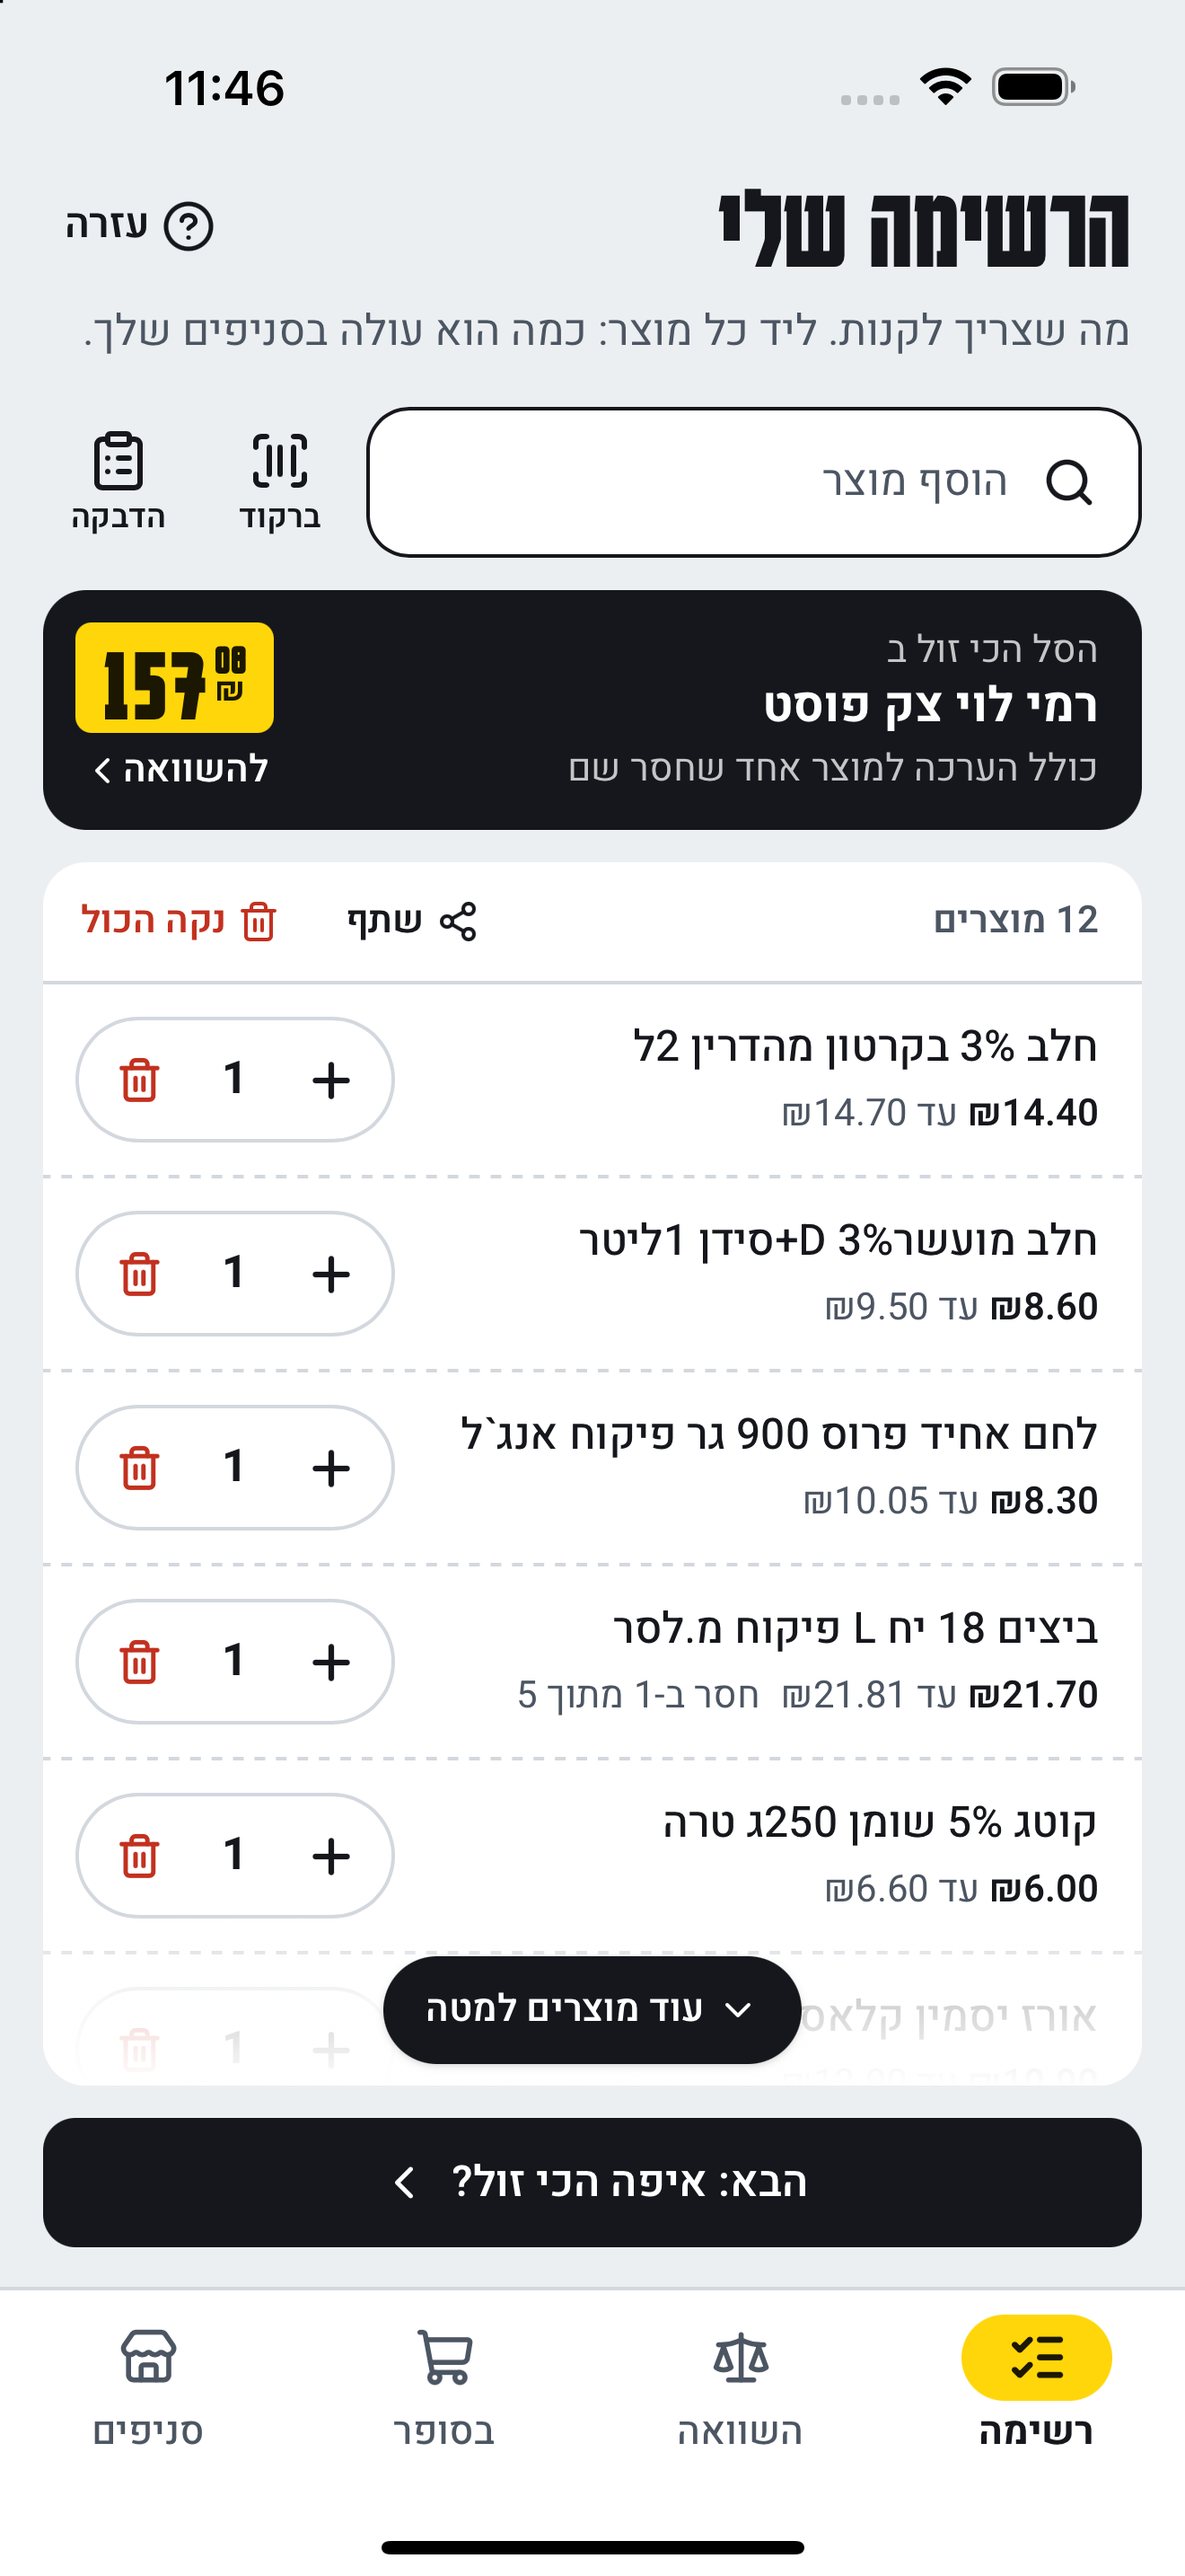
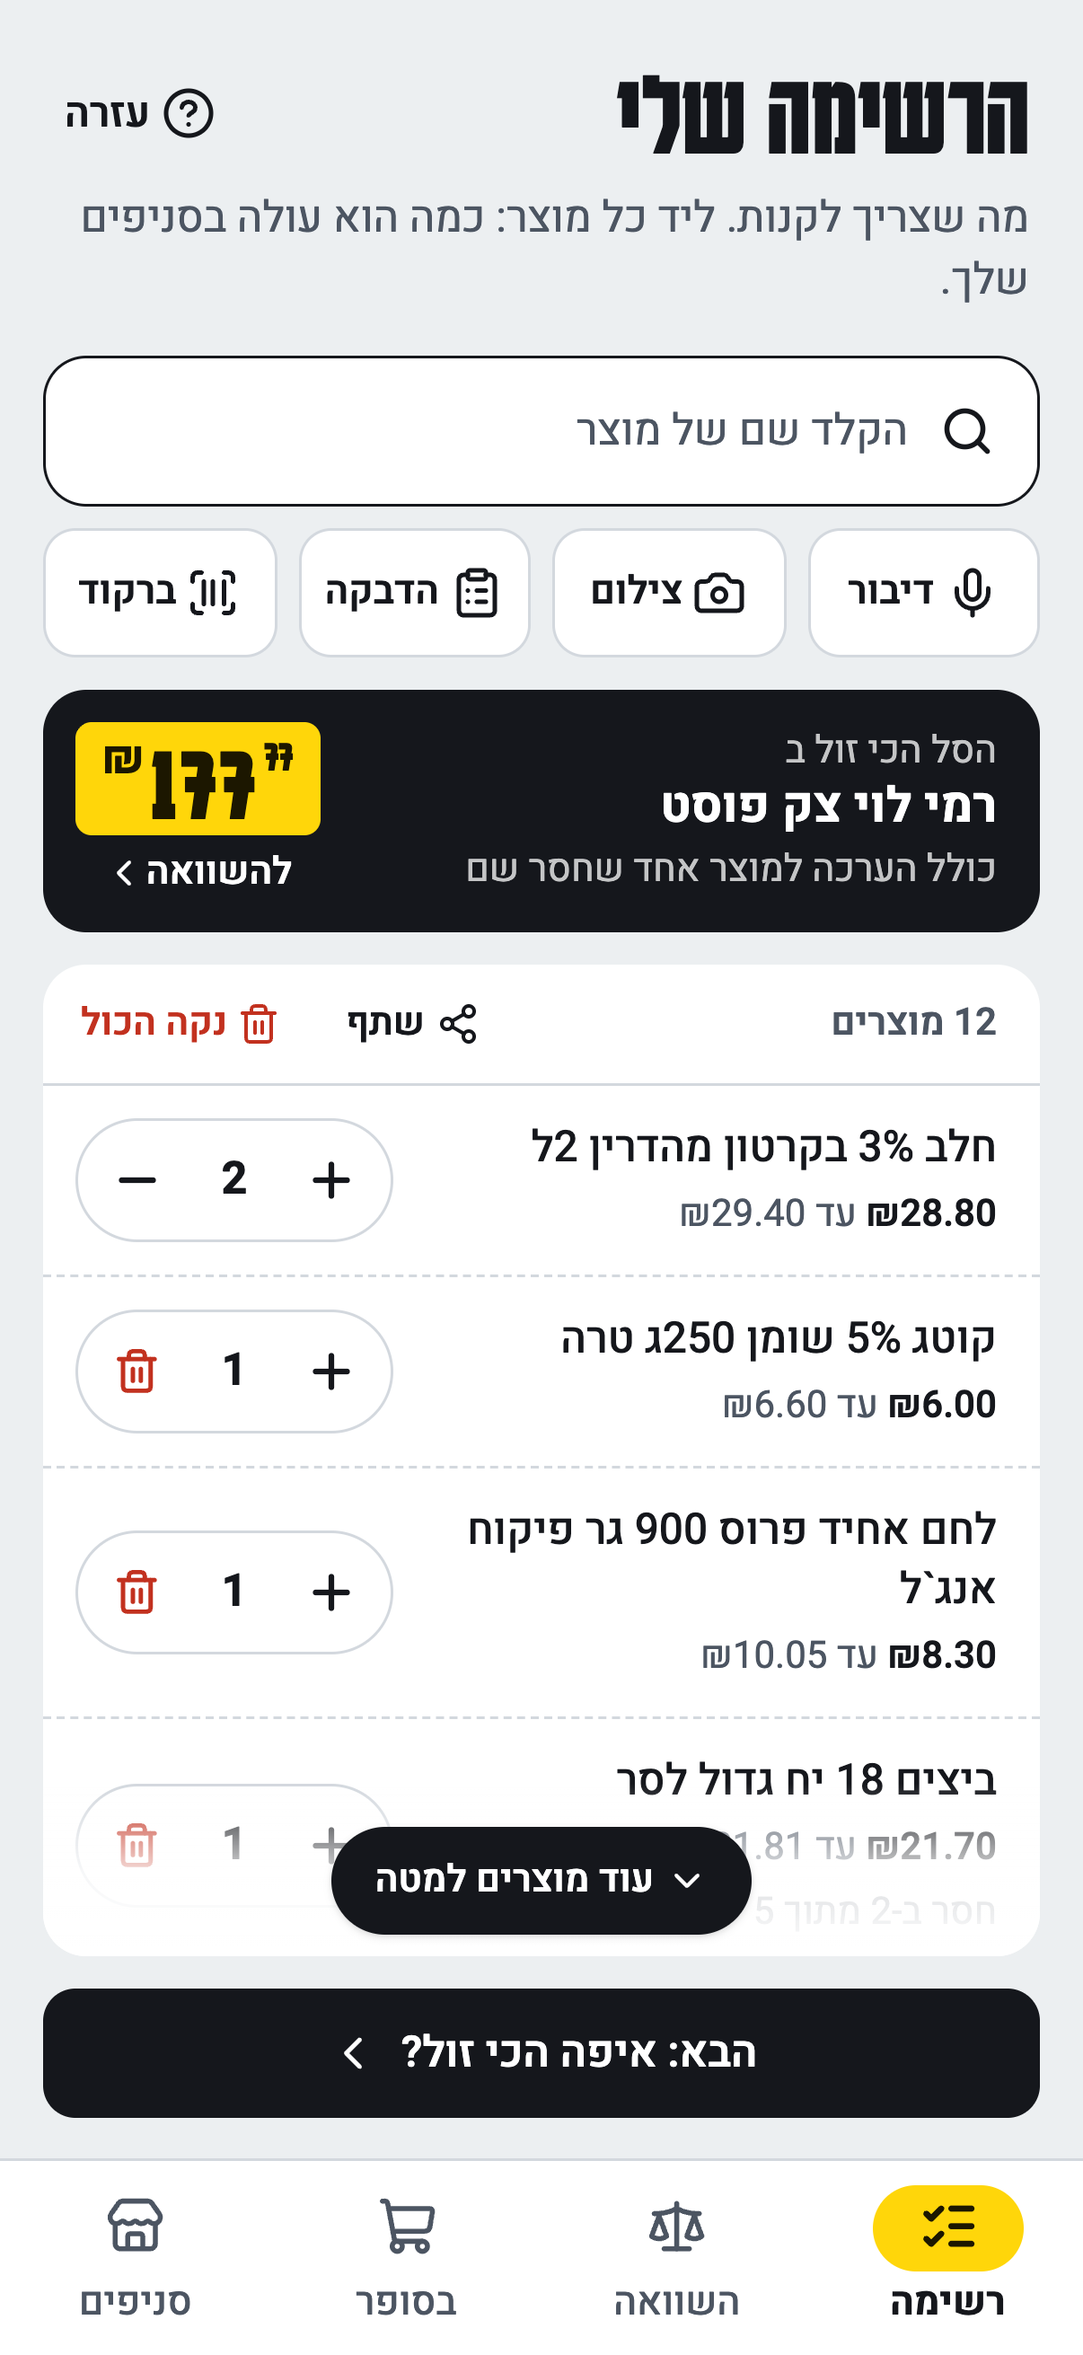
App Store: listing filled, build 1.0.0 uploaded; iPhone screenshots at the 6.3" size; eggs sized in Hebrew
- store-assets.mjs --app-store takes the iPhone screenshots at 1206×2622, the base size App
  Store Connect now asks for, from the live site.
- APP-STORE.md records what was set up for the App Store (bundle ID, app record, Israel only,
  free, rating 13+ for alcohol and tobacco in the catalogue, automatic release).
- 28 chains in the listings (the online-only one is no longer counted).
- Eggs labelled with Hebrew sizes ("גדול", "בינוני", "ענק") are compared by kind too.

diff --git a/src/data/kinds.test.ts b/src/data/kinds.test.ts
@@ -30,6 +30,8 @@ describe('staple kinds', () => {
     expect(kind('שום יבש תפזורת')).toBe('garlic');
     expect(kind('ביצים 18 יח L פיקוח מ.לסר', false)).toBe('eggs-L-18');
     expect(kind('ביצים 12 יחידות M פיקוח', false)).toBe('eggs-M-12');
+    expect(kind('ביצים 18 יח גדול לסר', false)).toBe('eggs-L-18');
+    expect(kind('ביצים בינוניות 12 יח', false)).toBe('eggs-M-12');
   });
 
   it('leaves out prepared, frozen, smoked, dried and look-alike products', () => {

diff --git a/store/APP-STORE.md b/store/APP-STORE.md
@@ -1,6 +1,6 @@
 # העלאת סל חכם ל-App Store
 
-**אפשר להתחיל רק אחרי ש-Apple מאשרים את חשבון המפתח.** עד אז אין צורך לעשות כלום; האפליקציה כבר נבנית ורצה בסימולטור.
+**מצב (26.11.2026):** החשבון הארגוני (GM-BUSINESS, צוות `JA985W9FZ2`) אושר. נרשם מזהה `io.github.guymaslawi.salhacham`, נוצרה האפליקציה ב-App Store Connect (Apple ID `6839656921`, SKU `sal-hacham-ios`), כל הפרטים מולאו, וגרסה 1.0.0 (build 1) הועלתה וצורפה. זמינה בישראל בלבד, חינם, דירוג גיל 13+. נשאר רק **Add for Review → Submit**.
 
 ## איך האפליקציה בנויה
 
@@ -50,7 +50,7 @@ https://appstoreconnect.apple.com → **Apps** → **+** → **New App**:
 
 ### 6. דף האפליקציה
 
-ממלאים לפי הטקסטים שלמטה. צילומי המסך נמצאים ב-`store/app-store/` (1320×2868, מתאים ל-iPhone בגודל 6.9 אינץ', ו-Apple מקטינה אותם לשאר הגדלים).
+ממלאים לפי הטקסטים שלמטה. צילומי המסך נמצאים ב-`store/app-store/` (1206×2622, הגודל הבסיסי ש-Apple דורשת היום: iPhone 6.3 אינץ'; היא מתאימה אותם לשאר הגדלים). צילום מחדש מהאתר החי: `node scripts/store-assets.mjs --app-store`.
 
 ### 7. הגשה לבדיקה
 
@@ -75,14 +75,14 @@ https://appstoreconnect.apple.com → **Apps** → **+** → **New App**:
 **Promotional text** (119/170):
 
 ```
-משווים את רשימת הקניות בין 29 רשתות וכ-1,900 סניפים, לפי המחירים והמבצעים שהרשתות מפרסמות היום. בלי הרשמה ובלי פרסומות.
+משווים את רשימת הקניות בין 28 רשתות וכ-1,900 סניפים, לפי המחירים והמבצעים שהרשתות מפרסמות. בלי הרשמה ובלי פרסומות.
 ```
 
 **Description**: התיאור המלא מ-`store/listing.md`, אותו טקסט כמו ב-Google Play.
 
 **App Privacy**: **Data Not Collected**. האפליקציה לא אוספת שום מידע, וזה גם מה שכתוב בקובץ הפרטיות שבתוך האפליקציה (`PrivacyInfo.xcprivacy`).
 
-**Age Rating**: לכל השאלות **None** או **No**. התוצאה: 4+.
+**Age Rating**: לכל השאלות **None** או **No**, חוץ מ-Alcohol, Tobacco or Drug Use or References: **Infrequent** (בקטלוג יש בירה, יין וסיגריות כמוצרים). התוצאה: 13+.
 
 **App Review notes** (באנגלית, כי הבודקים קוראים אנגלית):
 
@@ -96,4 +96,4 @@ Native features: the system share sheet for sharing the list, location (used onl
 The app collects no data and has no ads, analytics or tracking.
 ```
 
-**Copyright**: `2026` ושמך, כפי שיופיע בחשבון המפתח.
+**Copyright**: `2026 GM-BUSINESS`. **Availability**: Israel בלבד. **Release**: אוטומטית אחרי האישור.

diff --git a/store/listing.md b/store/listing.md
@@ -28,7 +28,7 @@
 מחירים אמיתיים, כל שעה
 המחירים והמבצעים נלקחים מהקבצים שרשתות השיווק מחויבות לפרסם לפי חוק שקיפות המחירים, ונבדקים כל שעה. מבצעים שתלויים בקופון, בקנייה באתר או בסכום קנייה מינימלי לא נספרים, כדי שהמחיר שתראה יהיה המחיר שתשלם. מחירי מועדון מוצגים בנפרד, ואפשר לבחור אם לכלול אותם.
 
-29 רשתות, כ-1,900 סניפים
+28 רשתות, כ-1,900 סניפים
 בין השאר: שופרסל, רמי לוי, יוחננוף, ויקטורי, אושר עד, קרפור, מחסני השוק, חצי חינם, טיב טעם, קשת טעמים, סופר ספיר, פרש מרקט, סטופ מרקט, קינג סטור, סיטי מרקט, נתיב החסד, סופר-פארם וגוד פארם.
 
 נוח לכולם
